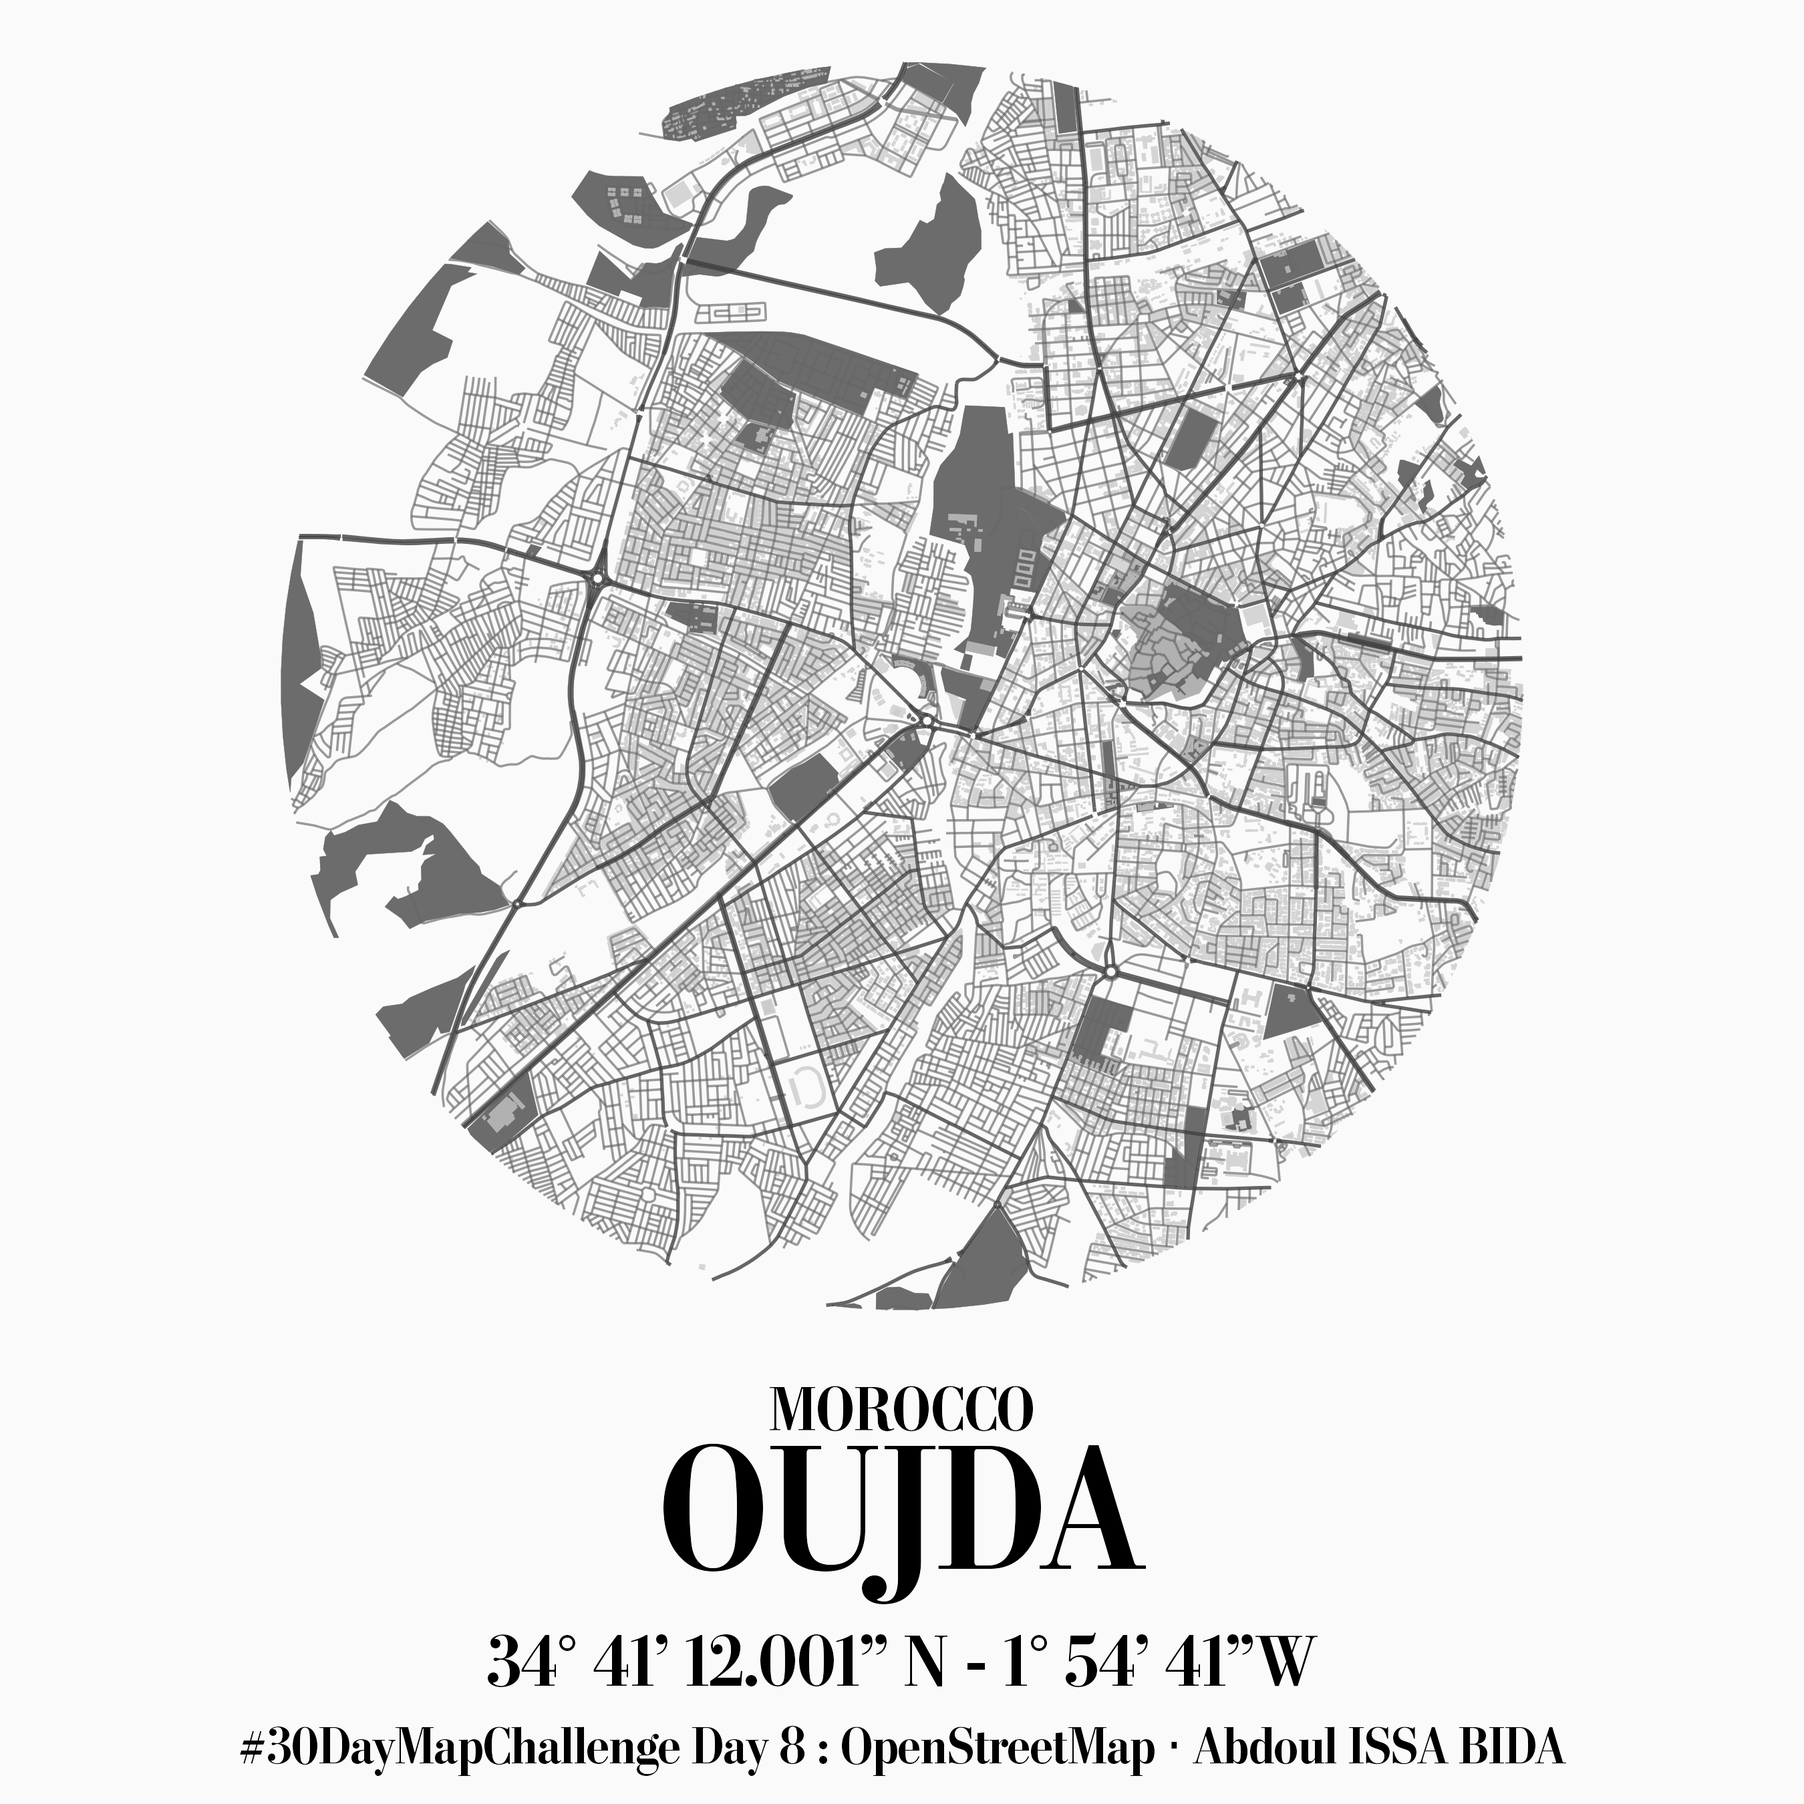
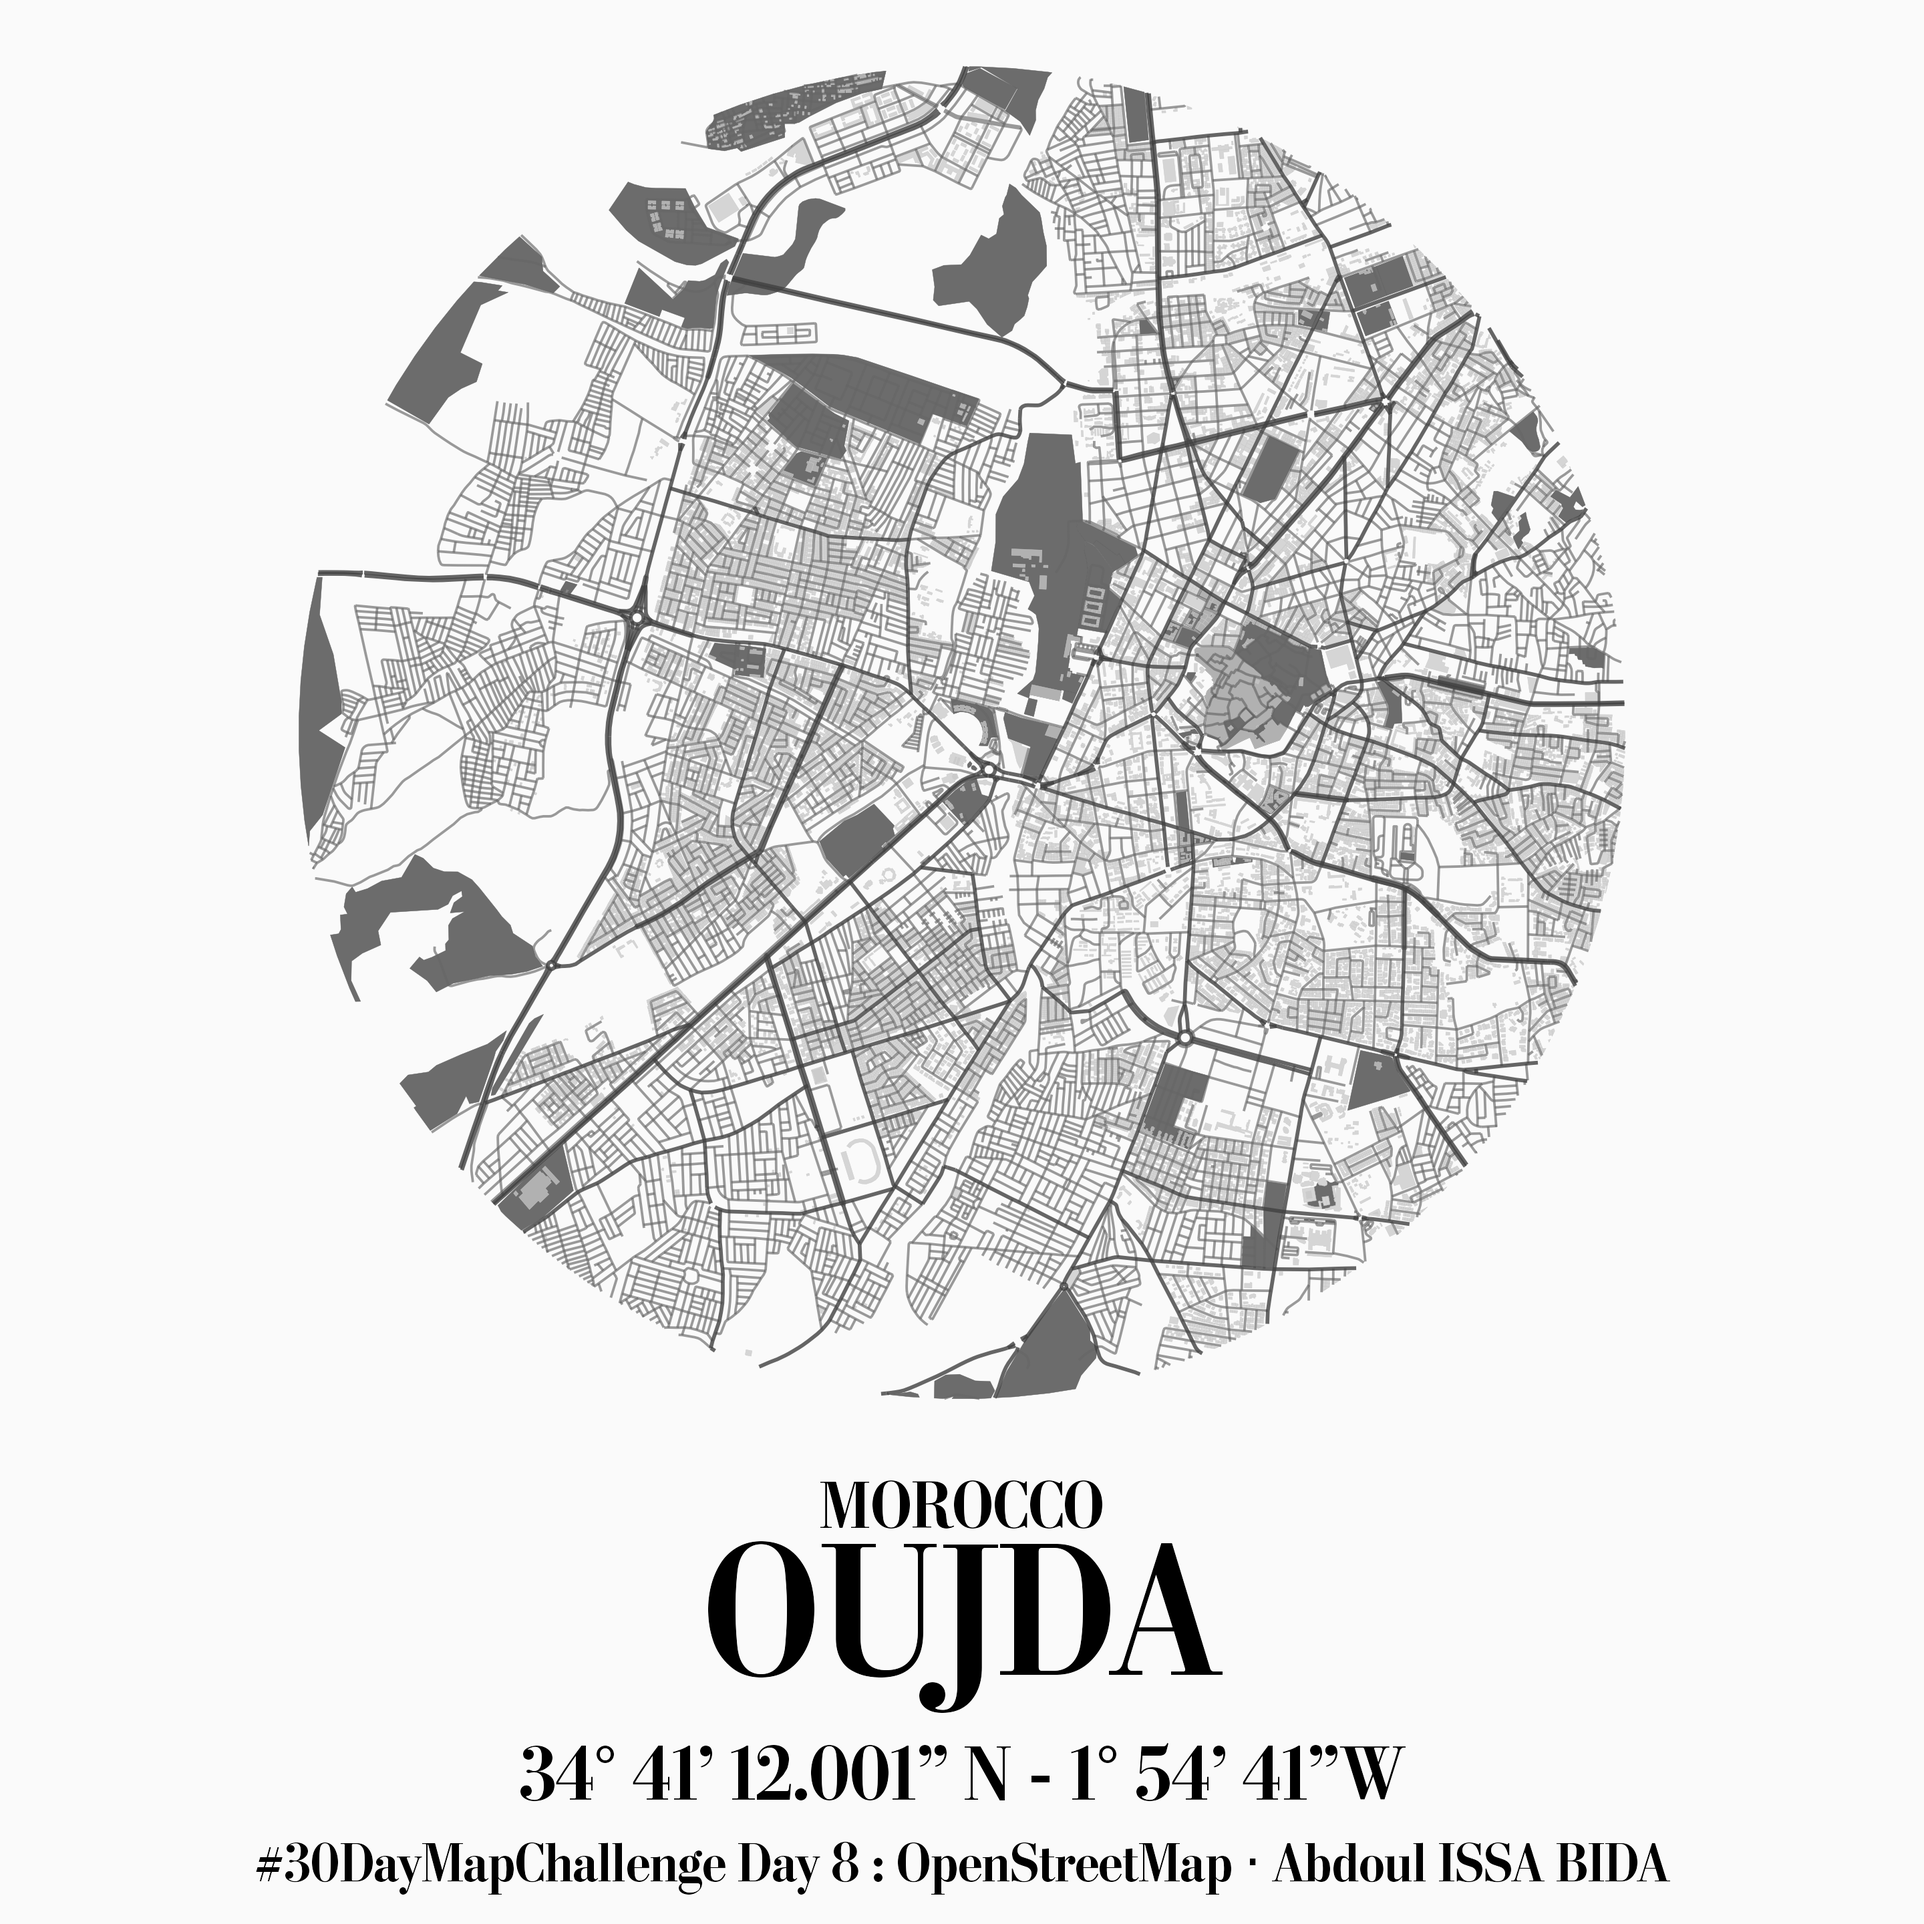
Day 8 completed.

diff --git a/README.md b/README.md
@@ -38,3 +38,8 @@ ___
 ## Day 7 - Raster
 
 <a href="Day7"><img src="Day7/day7.png"/></a>
+
+___
+## Day 7 - OpenStreetMap
+
+<a href="Day7"><img src="Day8/day8_2022.png"/></a>

diff --git a/Day8/README.md b/Day8/README.md
@@ -1,4 +1,8 @@
 
 ## Day 8 - OpenStreetMap
 
+### 2021
 ![](day8.png)
+
+### 2022
+![](day8_2022.png)
